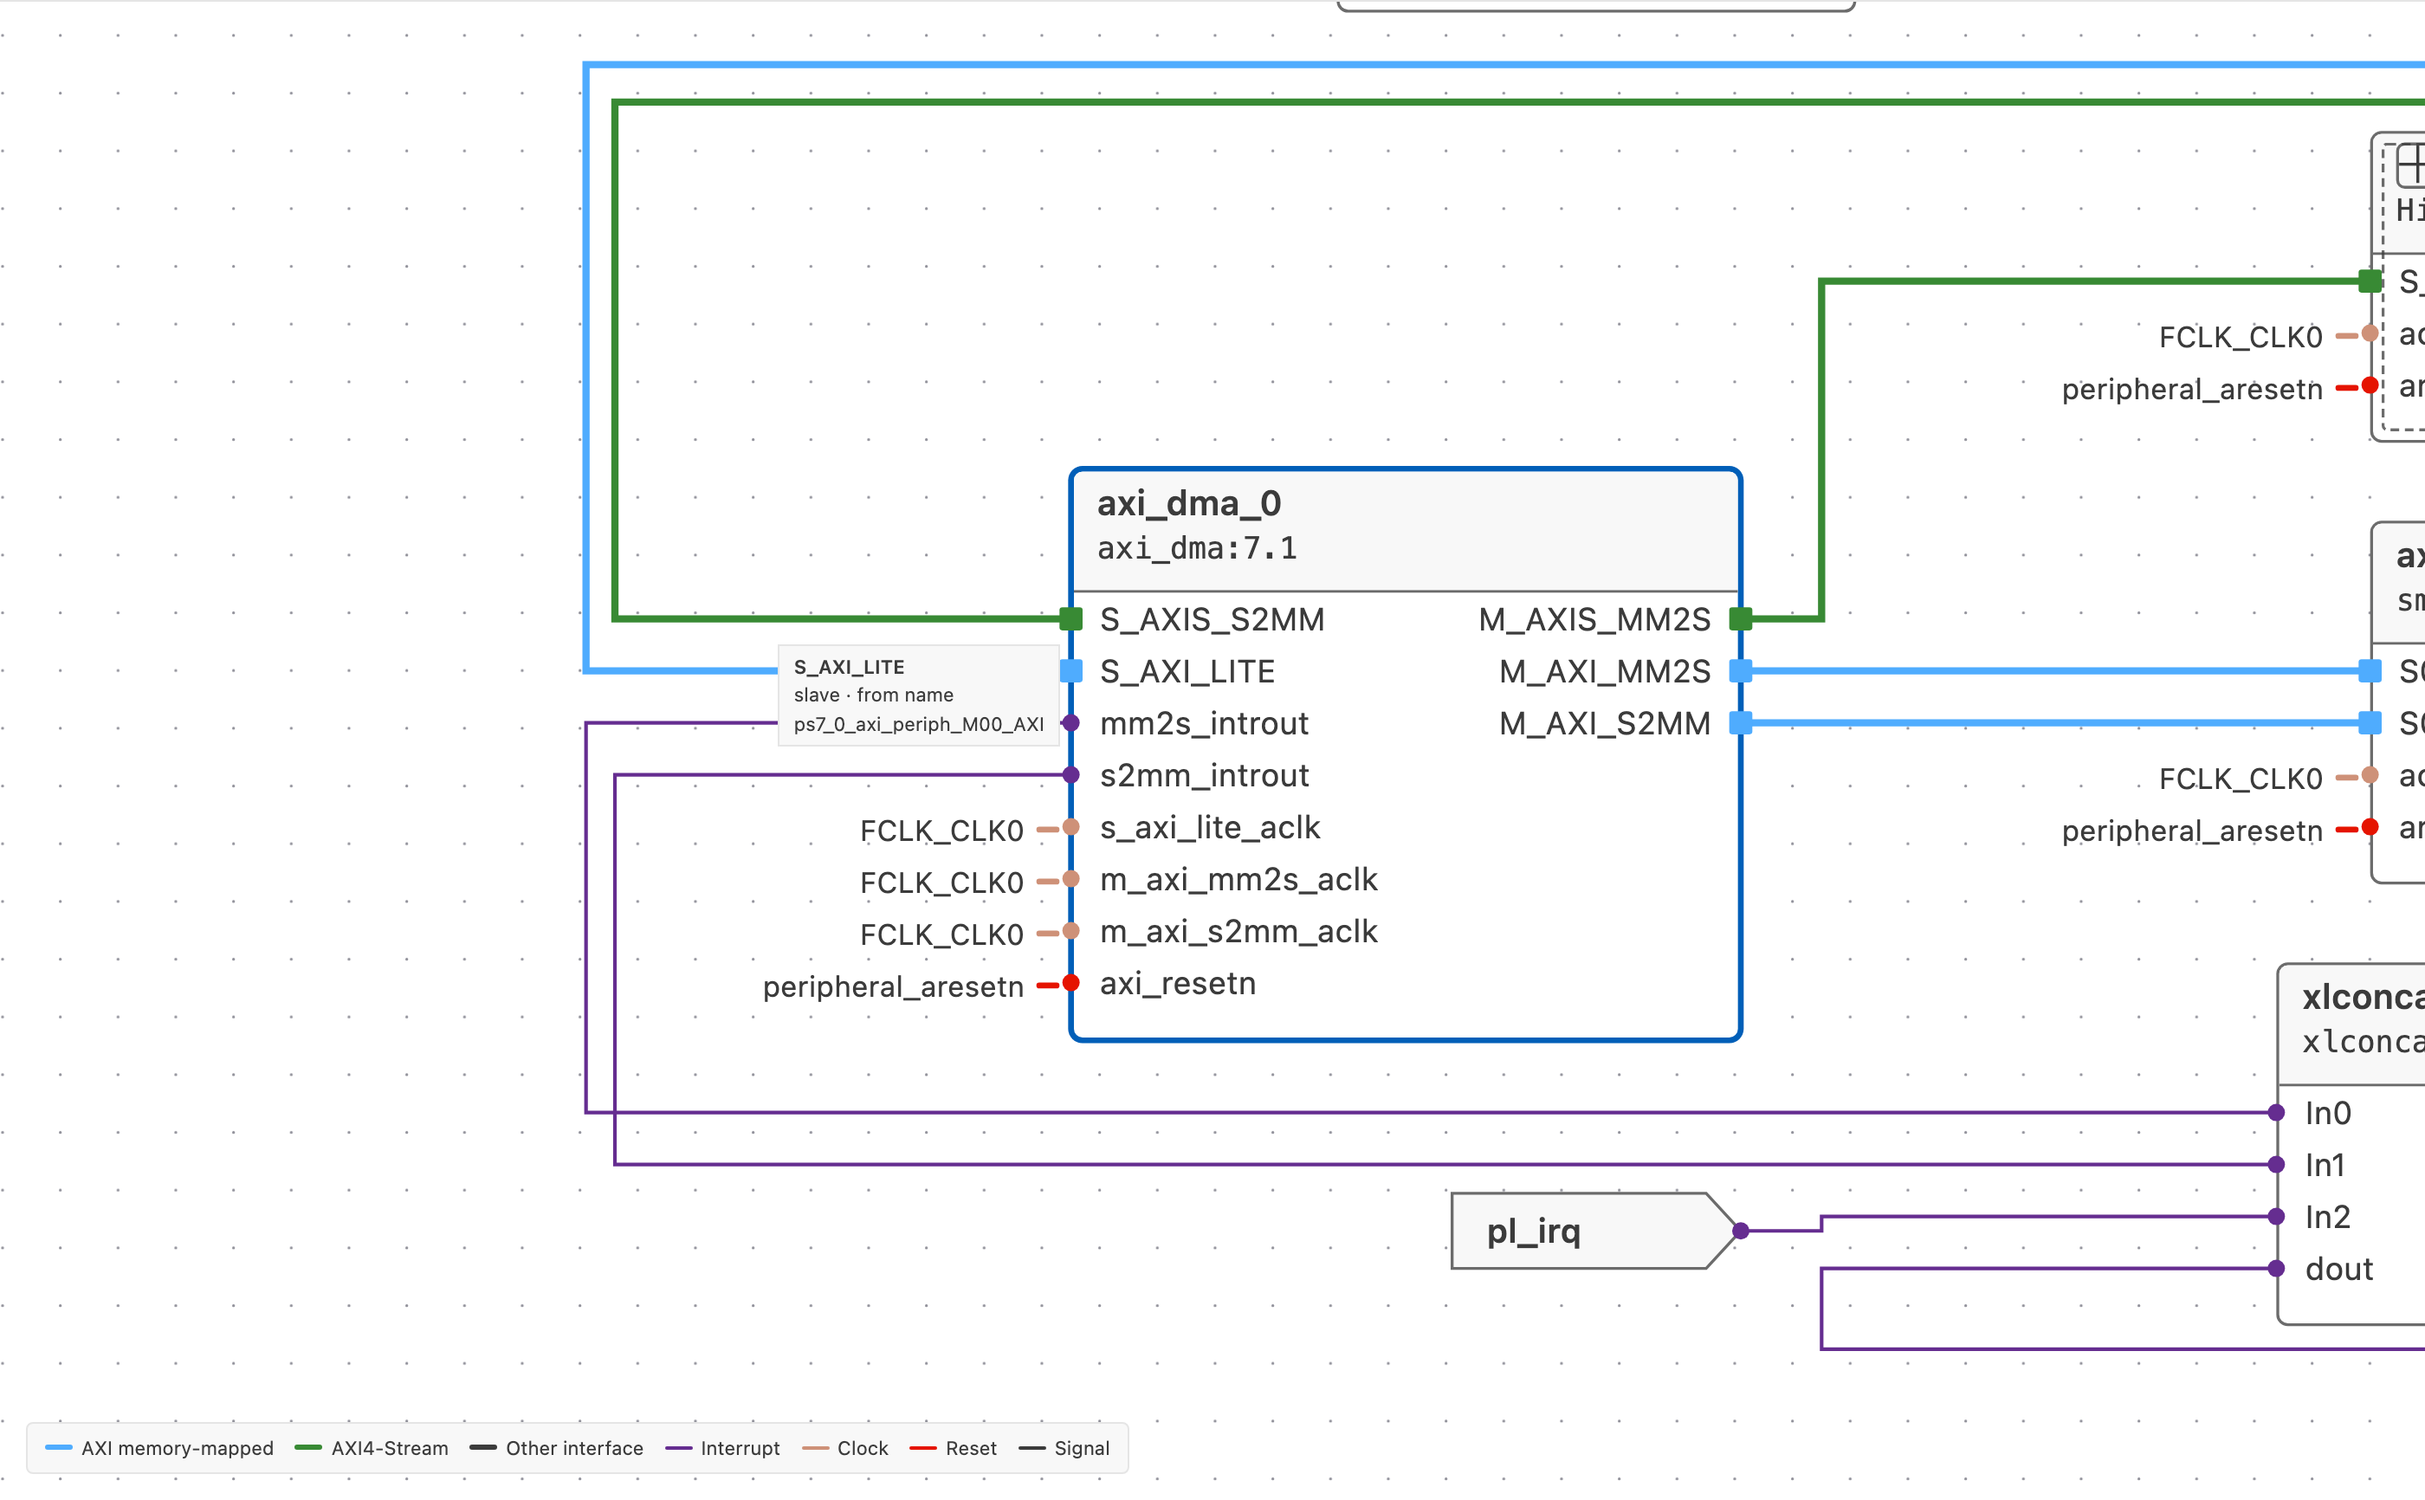
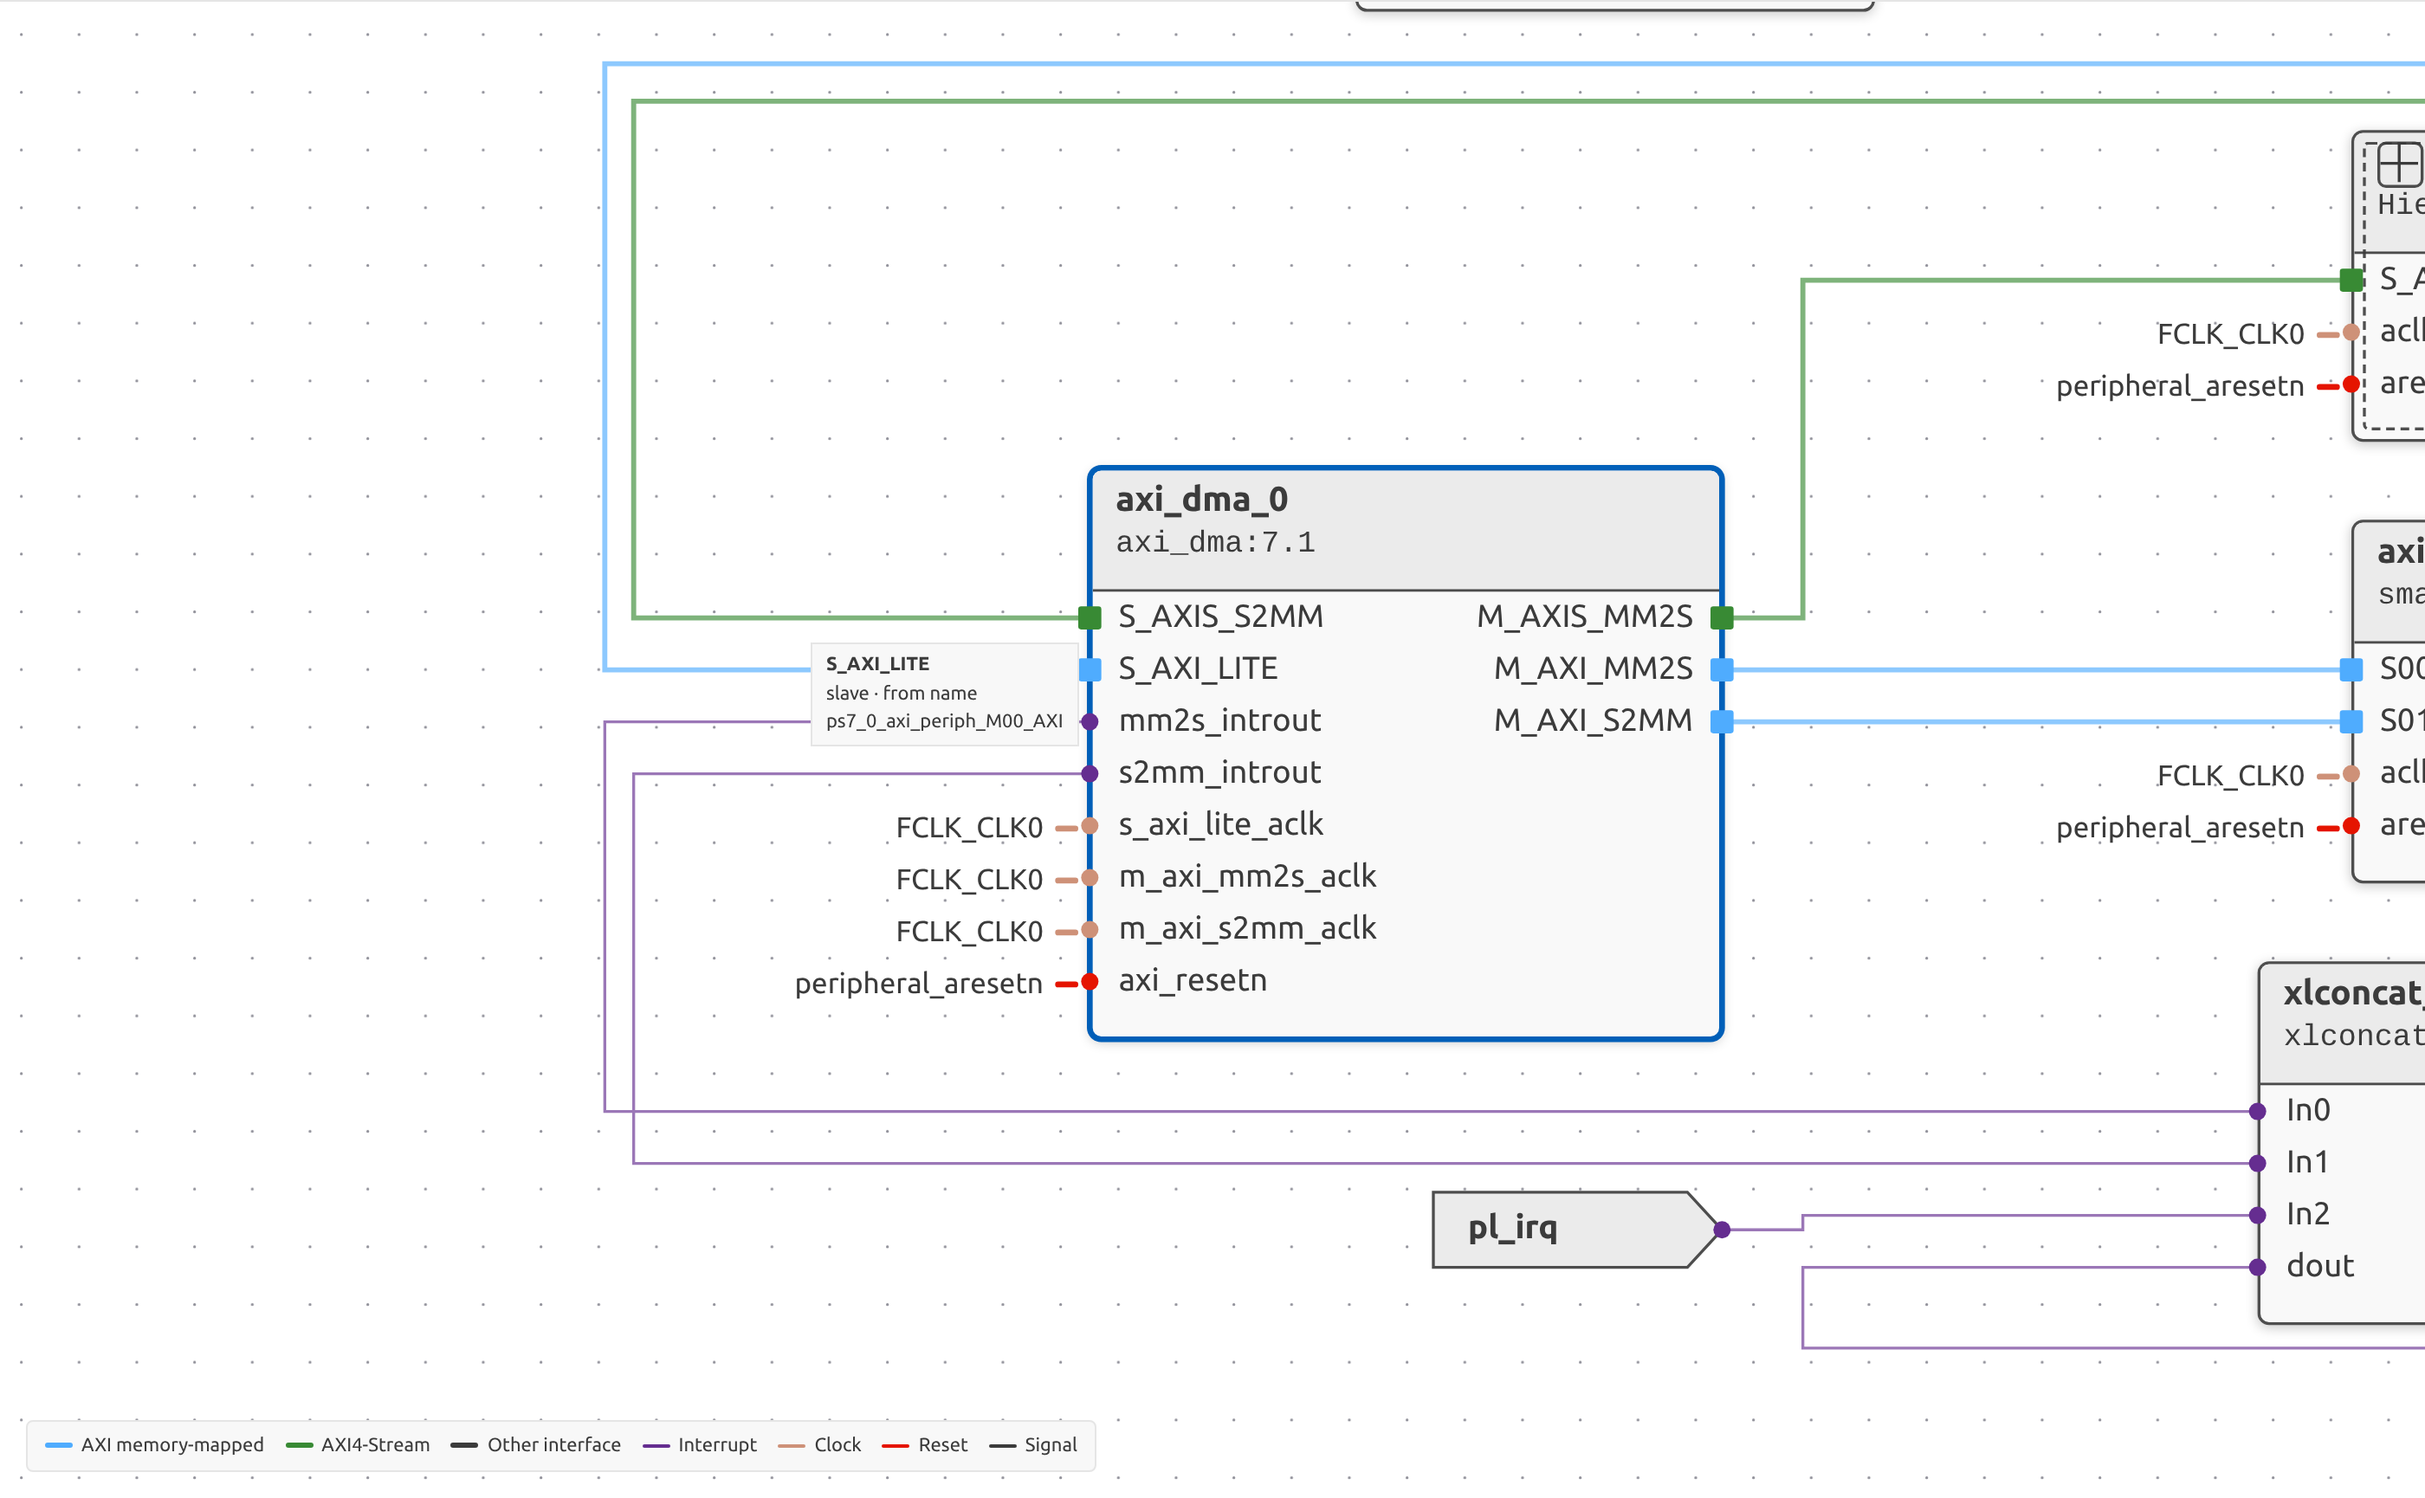
style(system-viewer): let blocks carry the visual weight over wires
The white block body and mid-gray outline blended into the white canvas
and dot grid, while the saturated 2.5 px interface wires pulled the eye
away from the blocks.

Blocks now have a darker outline (90 percent of the foreground), a
tinted body and header band mixed from the theme foreground, and a soft
widget shadow that stays under the selection and highlight rings. Port
tags share the header fill, and the grid dots are fainter.

Wires at rest are thinner (interface 1.75 px, signal 1 px) and their
category or domain color is mixed toward the canvas
(restingWireColor). Selected, highlighted and crossing wires keep the
full color, so they now stand out more. Pin markers and the legend keep
the full color.

Refs #261

diff --git a/src/webview/systemDiagram/systemDiagram.css b/src/webview/systemDiagram/systemDiagram.css
@@ -66,19 +66,36 @@ input:focus-visible {
 }
 
 /* Theme border tokens are nearly invisible on light themes; derive the block
-   and port outline from the foreground so they stand out in every theme. */
+   and port outline, body and header from the foreground so blocks stand out
+   from the canvas, and carry more weight than the wires, in every theme. */
 .sd-node,
 .sd-port,
 .sd-frame {
-  --sd-node-line: color-mix(in srgb, var(--vscode-foreground) 75%, transparent);
+  --sd-node-line: color-mix(in srgb, var(--vscode-foreground) 90%, transparent);
+  --sd-node-fill: color-mix(in srgb, var(--vscode-foreground) 3%, var(--vscode-editor-background));
+  --sd-node-head-fill: color-mix(
+    in srgb,
+    var(--vscode-foreground) 10%,
+    var(--vscode-editor-background)
+  );
+  --sd-node-shadow: 0 1px 4px var(--vscode-widget-shadow, rgba(0, 0, 0, 0.2));
+}
+
+/* Fainter grid dots, so the canvas stays behind the blocks. */
+.react-flow {
+  --xy-background-pattern-dots-color-default: color-mix(
+    in srgb,
+    var(--vscode-foreground) 25%,
+    transparent
+  );
 }
 
 .sd-node {
   position: relative;
-  border: 1px solid var(--vscode-editorWidget-border, var(--vscode-panel-border));
-  border-color: var(--sd-node-line);
-  background: var(--vscode-editor-background);
+  border: 1px solid var(--sd-node-line);
+  background: var(--sd-node-fill);
   border-radius: 4px;
+  box-shadow: var(--sd-node-shadow);
   font-size: 11px;
 }
 
@@ -111,7 +128,7 @@ input:focus-visible {
   position: absolute;
   inset: 0;
   overflow: visible;
-  fill: var(--vscode-editorWidget-background);
+  fill: var(--sd-node-head-fill);
   stroke: var(--sd-node-line);
   stroke-width: 1;
 }
@@ -145,7 +162,7 @@ input:focus-visible {
 .sd-node-head {
   box-sizing: border-box;
   padding: 3px 8px;
-  background: var(--vscode-editorWidget-background);
+  background: var(--sd-node-head-fill);
   border-bottom: 1px solid var(--sd-node-line);
   border-radius: 3px 3px 0 0;
 }
@@ -336,19 +353,24 @@ input:focus-visible {
 
 .sd-node[data-highlighted='true'] {
   border-color: var(--sd-highlight);
-  box-shadow: 0 0 0 1.5px var(--sd-highlight);
+  box-shadow:
+    0 0 0 1.5px var(--sd-highlight),
+    var(--sd-node-shadow);
 }
 
 .sd-node[data-selected='true'] {
   border-color: var(--vscode-focusBorder);
-  box-shadow: 0 0 0 1px var(--vscode-focusBorder);
+  box-shadow:
+    0 0 0 1px var(--vscode-focusBorder),
+    var(--sd-node-shadow);
 }
 
 .sd-node[data-highlighted='true'][data-selected='true'] {
   border-color: var(--sd-highlight);
   box-shadow:
     0 0 0 1.5px var(--sd-highlight),
-    0 0 0 3px var(--vscode-focusBorder);
+    0 0 0 3px var(--vscode-focusBorder),
+    var(--sd-node-shadow);
 }
 
 .sd-flash {

diff --git a/src/test/suite/webview/systemDiagram/DiagramCanvasClocks.test.tsx b/src/test/suite/webview/systemDiagram/DiagramCanvasClocks.test.tsx
@@ -192,17 +192,28 @@ describe('ElkEdge', () => {
     return container.querySelector('path.react-flow__edge-path') as SVGPathElement;
   }
 
-  it('keeps the category look without marks', () => {
+  it('keeps the category look without marks, muted toward the canvas at rest', () => {
     const path = drawn({});
-    expect(path.style.stroke).toBe('var(--vscode-charts-orange)');
+    expect(path.style.stroke).toBe(
+      'color-mix(in srgb, var(--vscode-charts-orange) 65%, var(--vscode-editor-background))'
+    );
     expect(path.style.strokeDasharray).toBe('');
     expect(path.style.opacity).toBe('');
   });
 
-  it('strokes in the domain color', () => {
+  it('strokes in the domain color, muted at rest', () => {
     const path = drawn({ domainColor: 'var(--vscode-charts-purple)' });
-    expect(path.style.stroke).toBe('var(--vscode-charts-purple)');
+    expect(path.style.stroke).toBe(
+      'color-mix(in srgb, var(--vscode-charts-purple) 65%, var(--vscode-editor-background))'
+    );
     expect(path.style.strokeDasharray).toBe('');
+  });
+
+  it('strokes a selected wire in its full color', () => {
+    expect(drawn({}, true).style.stroke).toBe('var(--vscode-charts-orange)');
+    expect(drawn({ domainColor: 'var(--vscode-charts-purple)' }, true).style.stroke).toBe(
+      'var(--vscode-charts-purple)'
+    );
   });
 
   it('draws a crossing dashed in the warning color, over any domain color', () => {

diff --git a/src/webview/systemDiagram/ElkEdge.tsx b/src/webview/systemDiagram/ElkEdge.tsx
@@ -1,6 +1,6 @@
 import React from 'react';
 import { BaseEdge, type Edge, type EdgeProps } from '@xyflow/react';
-import { categoryColor } from './colors';
+import { categoryColor, restingWireColor } from './colors';
 import type { ElkEdgeData } from './layout/elkLayout';
 
 export type ElkFlowEdge = Edge<ElkEdgeData, 'elk'>;
@@ -17,12 +17,13 @@ export function ElkEdge({ id, data, selected }: EdgeProps<ElkFlowEdge>) {
     .map((point, index) => `${index === 0 ? 'M' : 'L'} ${point.x} ${point.y}`)
     .join(' ');
   const width =
-    (data.isInterface ? 2.5 : 1.25) +
+    (data.isInterface ? 1.75 : 1) +
     (selected ? 1.5 : 0) +
     (data.highlightColor !== undefined ? 1.25 : 0);
+  const baseColor = data.domainColor ?? categoryColor(data.category);
   const stroke = data.crossing
     ? CROSSING_COLOR
-    : (data.highlightColor ?? data.domainColor ?? categoryColor(data.category));
+    : (data.highlightColor ?? (selected ? baseColor : restingWireColor(baseColor)));
   const dash = data.crossing ? DASHED : undefined;
   return (
     <BaseEdge

diff --git a/src/webview/systemDiagram/colors.ts b/src/webview/systemDiagram/colors.ts
@@ -15,3 +15,11 @@ const CATEGORY_COLORS: Record<NetCategory, string> = {
 export function categoryColor(category: NetCategory | undefined): string {
   return CATEGORY_COLORS[category ?? 'signal'];
 }
+
+/**
+ * A wire at rest: its color mixed toward the canvas, so blocks carry the visual
+ * weight. Selected, highlighted and crossing wires keep the full color.
+ */
+export function restingWireColor(color: string): string {
+  return `color-mix(in srgb, ${color} 65%, var(--vscode-editor-background))`;
+}

diff --git a/CHANGELOG.md b/CHANGELOG.md
@@ -14,6 +14,7 @@ All notable changes to this project are documented in this file.
 ### Changed
 
 - **Shorter wires in the system viewer.** Blocks are placed by their data and interface connections, external ports sit next to a block they connect to, and clock and reset nets are shown as net-name badges on their pins instead of wires; large designs lay out much faster. ([#261](https://github.com/bleviet/ipcraft-vscode/issues/261))
+- **Blocks stand out from the canvas in the system viewer.** Blocks have a darker outline, a tinted body and header, and a light shadow; wires are thinner and softer until selected or highlighted, and the grid dots are fainter. ([#261](https://github.com/bleviet/ipcraft-vscode/issues/261))
 - **Clocks and resets is a toggle button in the system viewer.** It colors the clock and reset pins by clock domain, and a count chip next to it opens the Clocks tab. ([#258](https://github.com/bleviet/ipcraft-vscode/issues/258), [#259](https://github.com/bleviet/ipcraft-vscode/pull/259))
 - **Clicking an unconnected pin zooms in to its block** in the system viewer when the block is too small to read. ([#245](https://github.com/bleviet/ipcraft-vscode/issues/245), [#249](https://github.com/bleviet/ipcraft-vscode/pull/249))
 - **Stronger block outlines in the system viewer** on light and dark themes. ([#244](https://github.com/bleviet/ipcraft-vscode/issues/244), [#247](https://github.com/bleviet/ipcraft-vscode/pull/247))
